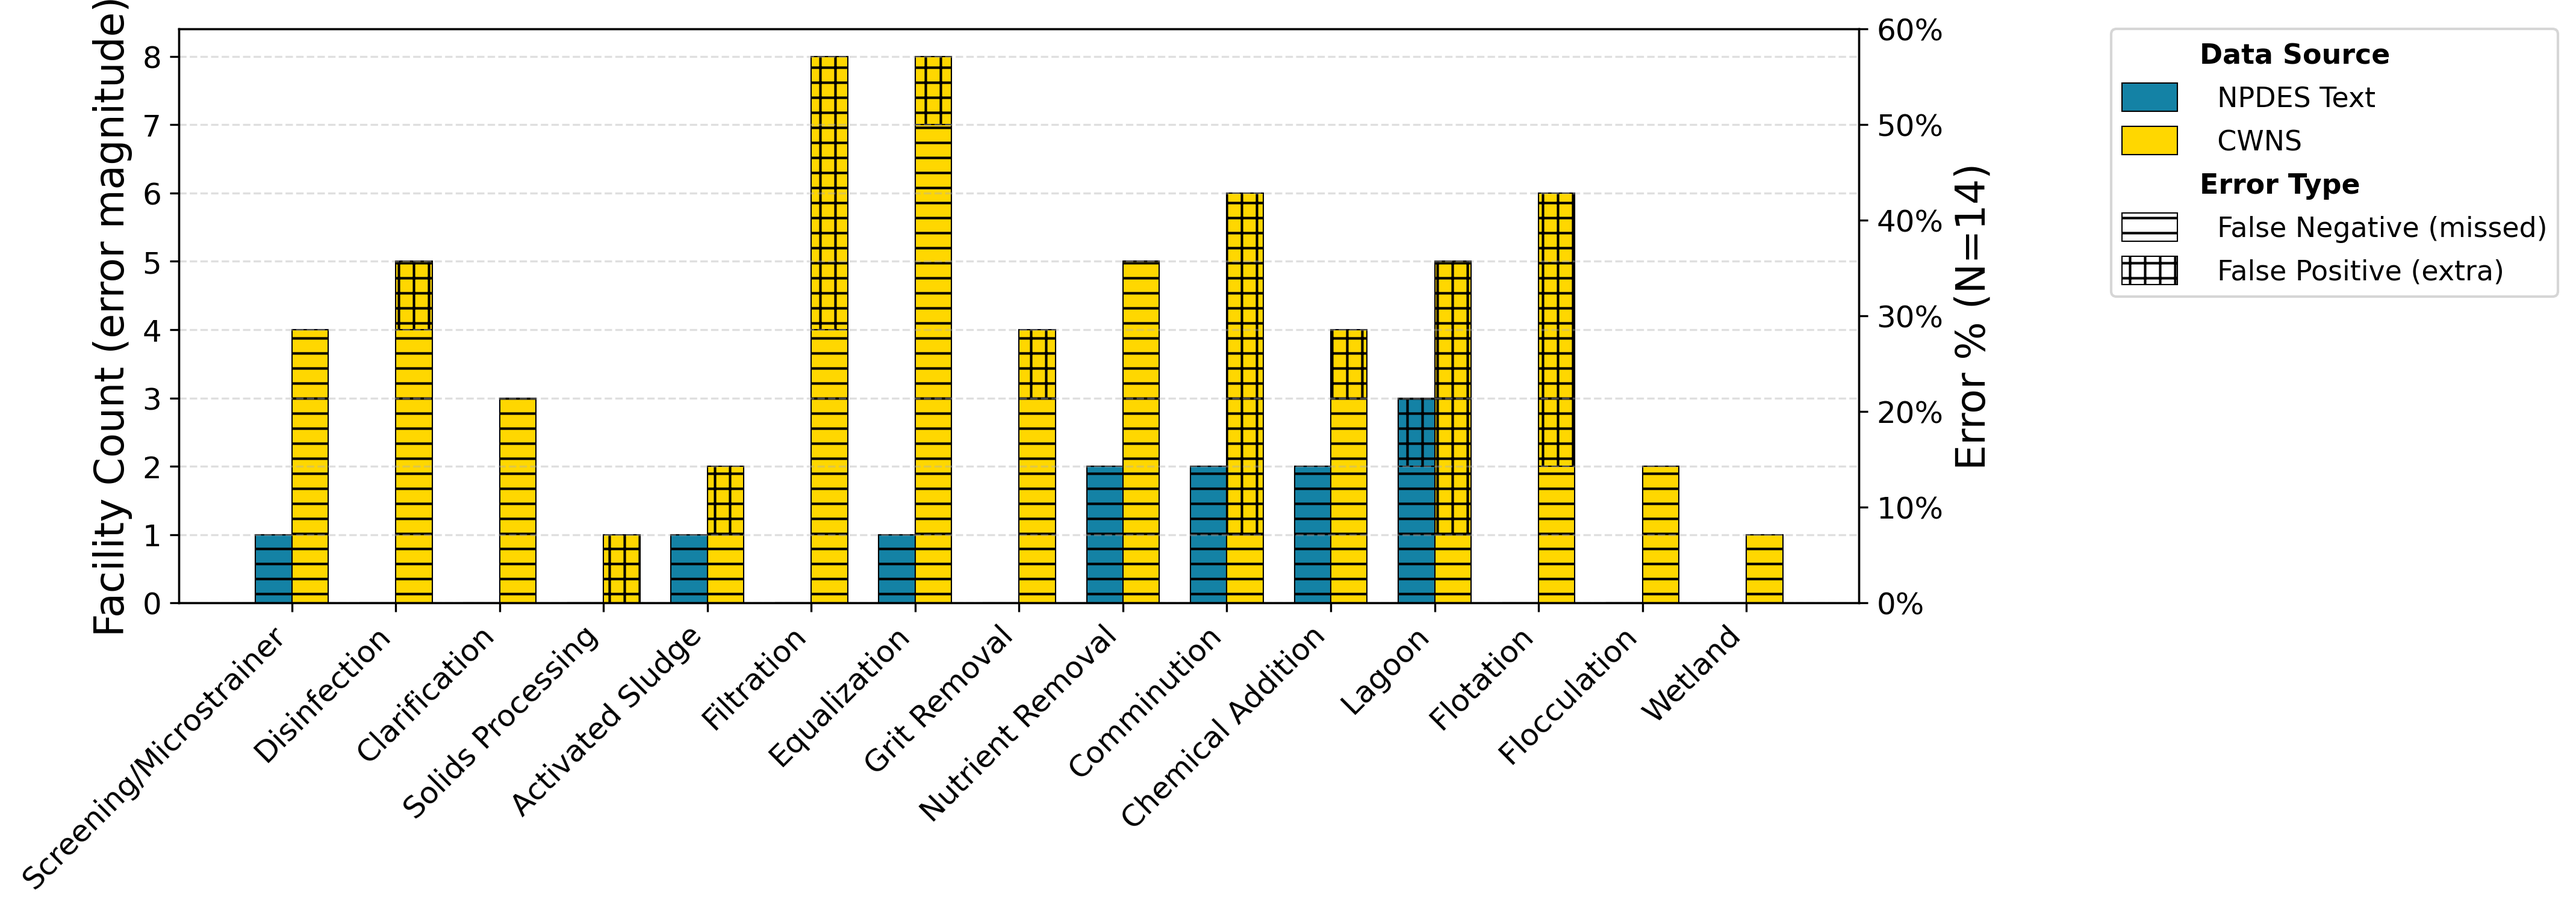
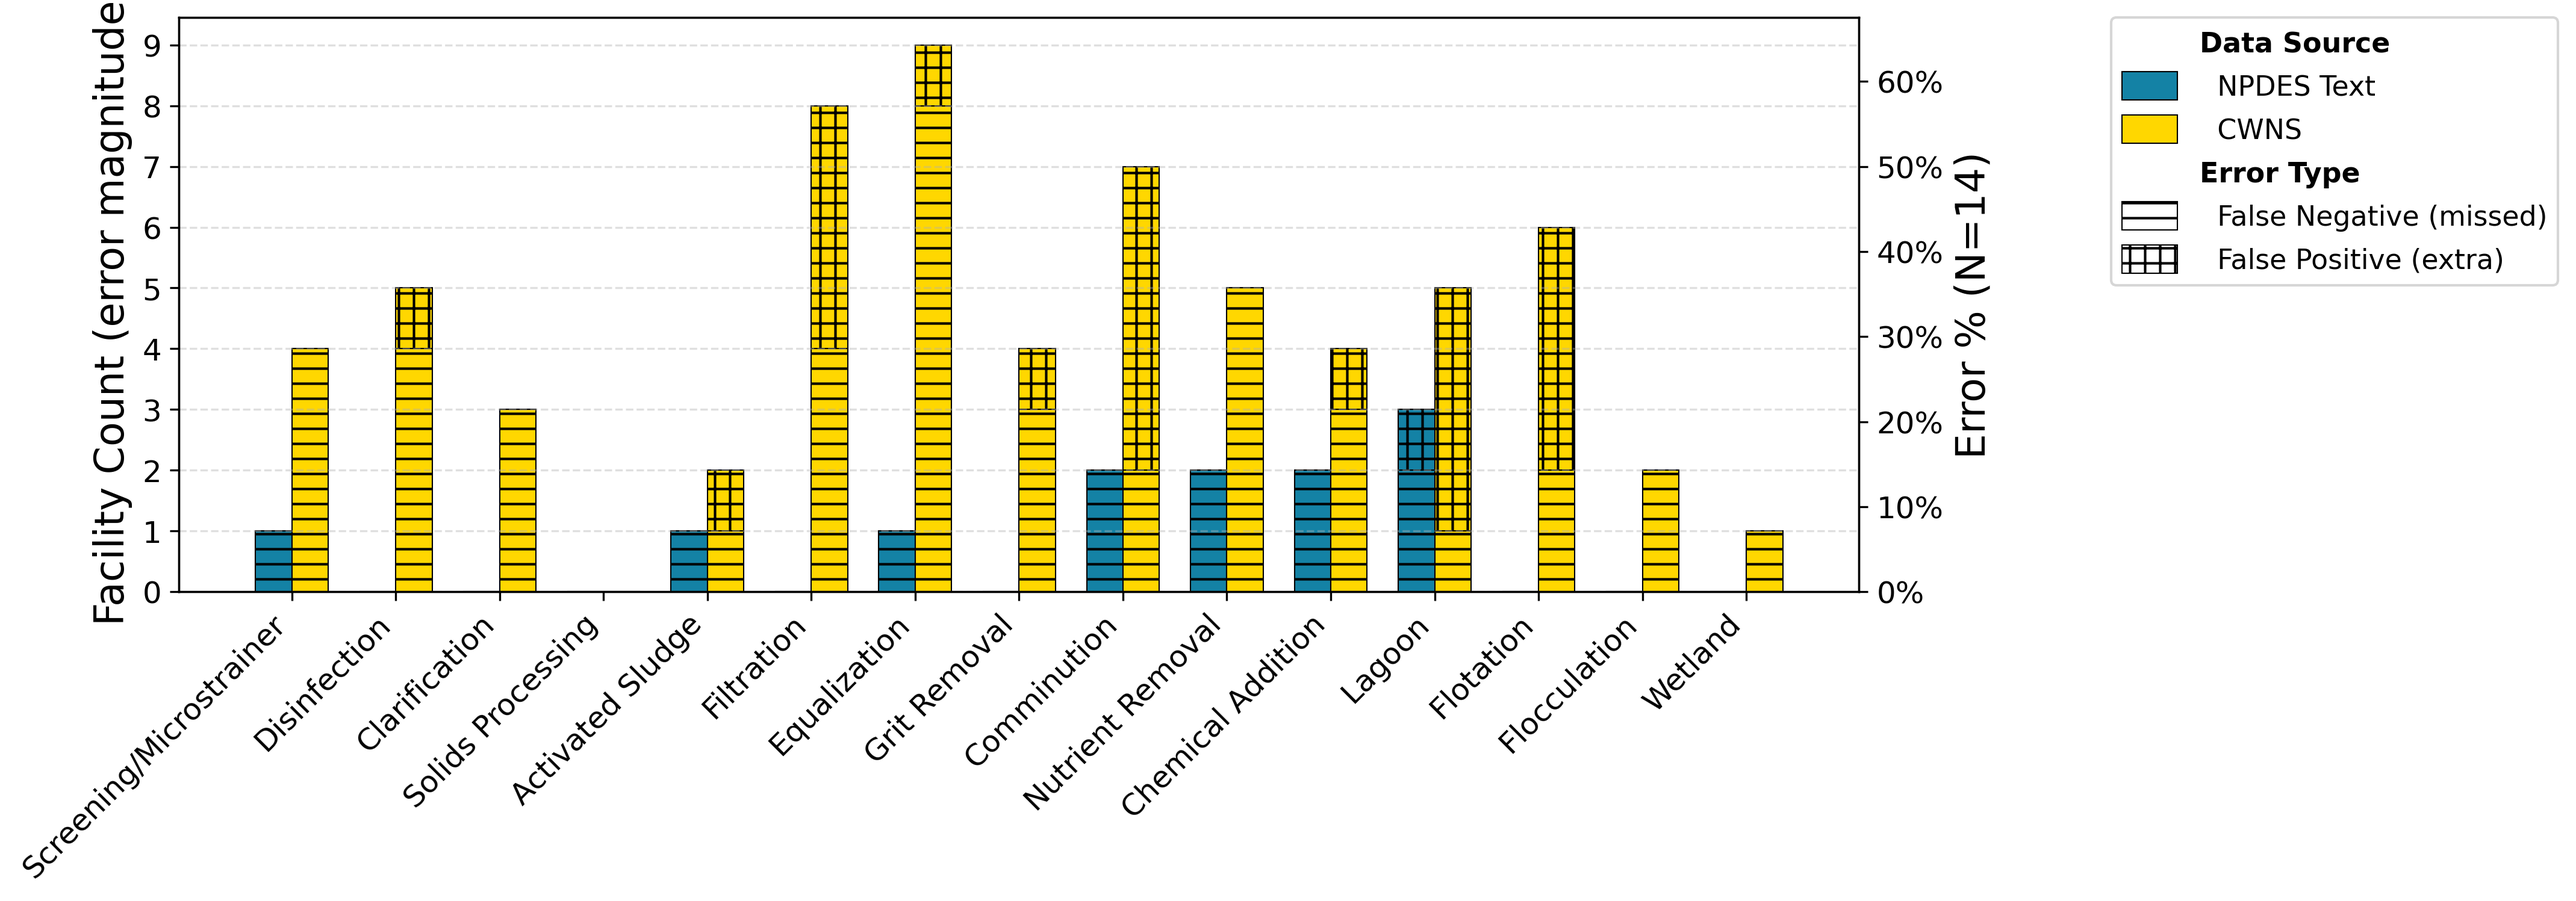
Ignoring "Disposal" in all plots (step0b and step5)

diff --git a/npdes_permits/helpers/utils.py b/npdes_permits/helpers/utils.py
@@ -9,16 +9,18 @@ def build_cwns_presence_mask(series):
     return s.isin({'present', 'future', 'present_and_future'})
 
 
-def extract_leaves(processes_dict, group_id=None):
+def extract_leaves(processes_dict, group_id=None, ignore_disposal=True):
     """Return list of (name, details_dict, group_id) for all leaf entries."""
     leaves = []
     for name, details in processes_dict.items():
         if not isinstance(details, dict):
             continue
+        if ignore_disposal and name == 'Disposal':
+            continue
         if 'alt_names' in details:
             leaves.append((name, details, group_id))
         else:
-            leaves.extend(extract_leaves(details, group_id=name))
+            leaves.extend(extract_leaves(details, group_id=name, ignore_disposal=ignore_disposal))
     return leaves
 
 

diff --git a/npdes_permits/step0b_ground_truth.py b/npdes_permits/step0b_ground_truth.py
@@ -131,7 +131,10 @@ npdes_text_process_cols      = [c for c in npdes_text_df.columns      if c not i
 # bacwa_ground_truth_process_cols = [c for c in bacwa_ground_truth_df.columns if c not in meta_cols]
 # bacwa_npdes_text_process_cols   = [c for c in bacwa_npdes_text_df.columns   if c not in meta_cols]
 
-all_sheet_process_cols = list(dict.fromkeys(ground_truth_process_cols + npdes_text_process_cols))
+disposal_leaves = {name for name, _, _ in extract_leaves(
+    unitprocess_keywords['Solids Processing']['Disposal'], ignore_disposal=False)}
+all_sheet_process_cols = [c for c in dict.fromkeys(ground_truth_process_cols + npdes_text_process_cols)
+                          if c not in disposal_leaves]
 
 # TRAIN ground truth comparison
 

diff --git a/npdes_permits/step0_build_cwns_table.py b/npdes_permits/step0_build_cwns_table.py
@@ -318,7 +318,7 @@ with open('data/unitprocess_keywords.json', 'r') as f:
     unitprocess_keywords = json.load(f)
 
 # Build reverse mapping: CWNS process name -> list of defined names
-leaves = extract_leaves(unitprocess_keywords)
+leaves = extract_leaves(unitprocess_keywords, ignore_disposal=False)
 all_keys = [name for name, _, _ in leaves]
 cwns_to_taxonomy = {}
 for process_name, details, _ in leaves:

diff --git a/npdes_permits/step2_search_npdes_text.py b/npdes_permits/step2_search_npdes_text.py
@@ -255,7 +255,7 @@ def main():
     
     # Create CSV headers - one column per process
     headers = ['AGENCY_NAME', 'FACILITY_NAME', 'PERMIT_NUMBER', 'PDF_File', 'Shared_PDF']
-    leaves = extract_leaves(keywords)
+    leaves = extract_leaves(keywords, ignore_disposal=False)
     all_keys = [name for name, _, _ in leaves]
 
     # Add one column for each treatment process
